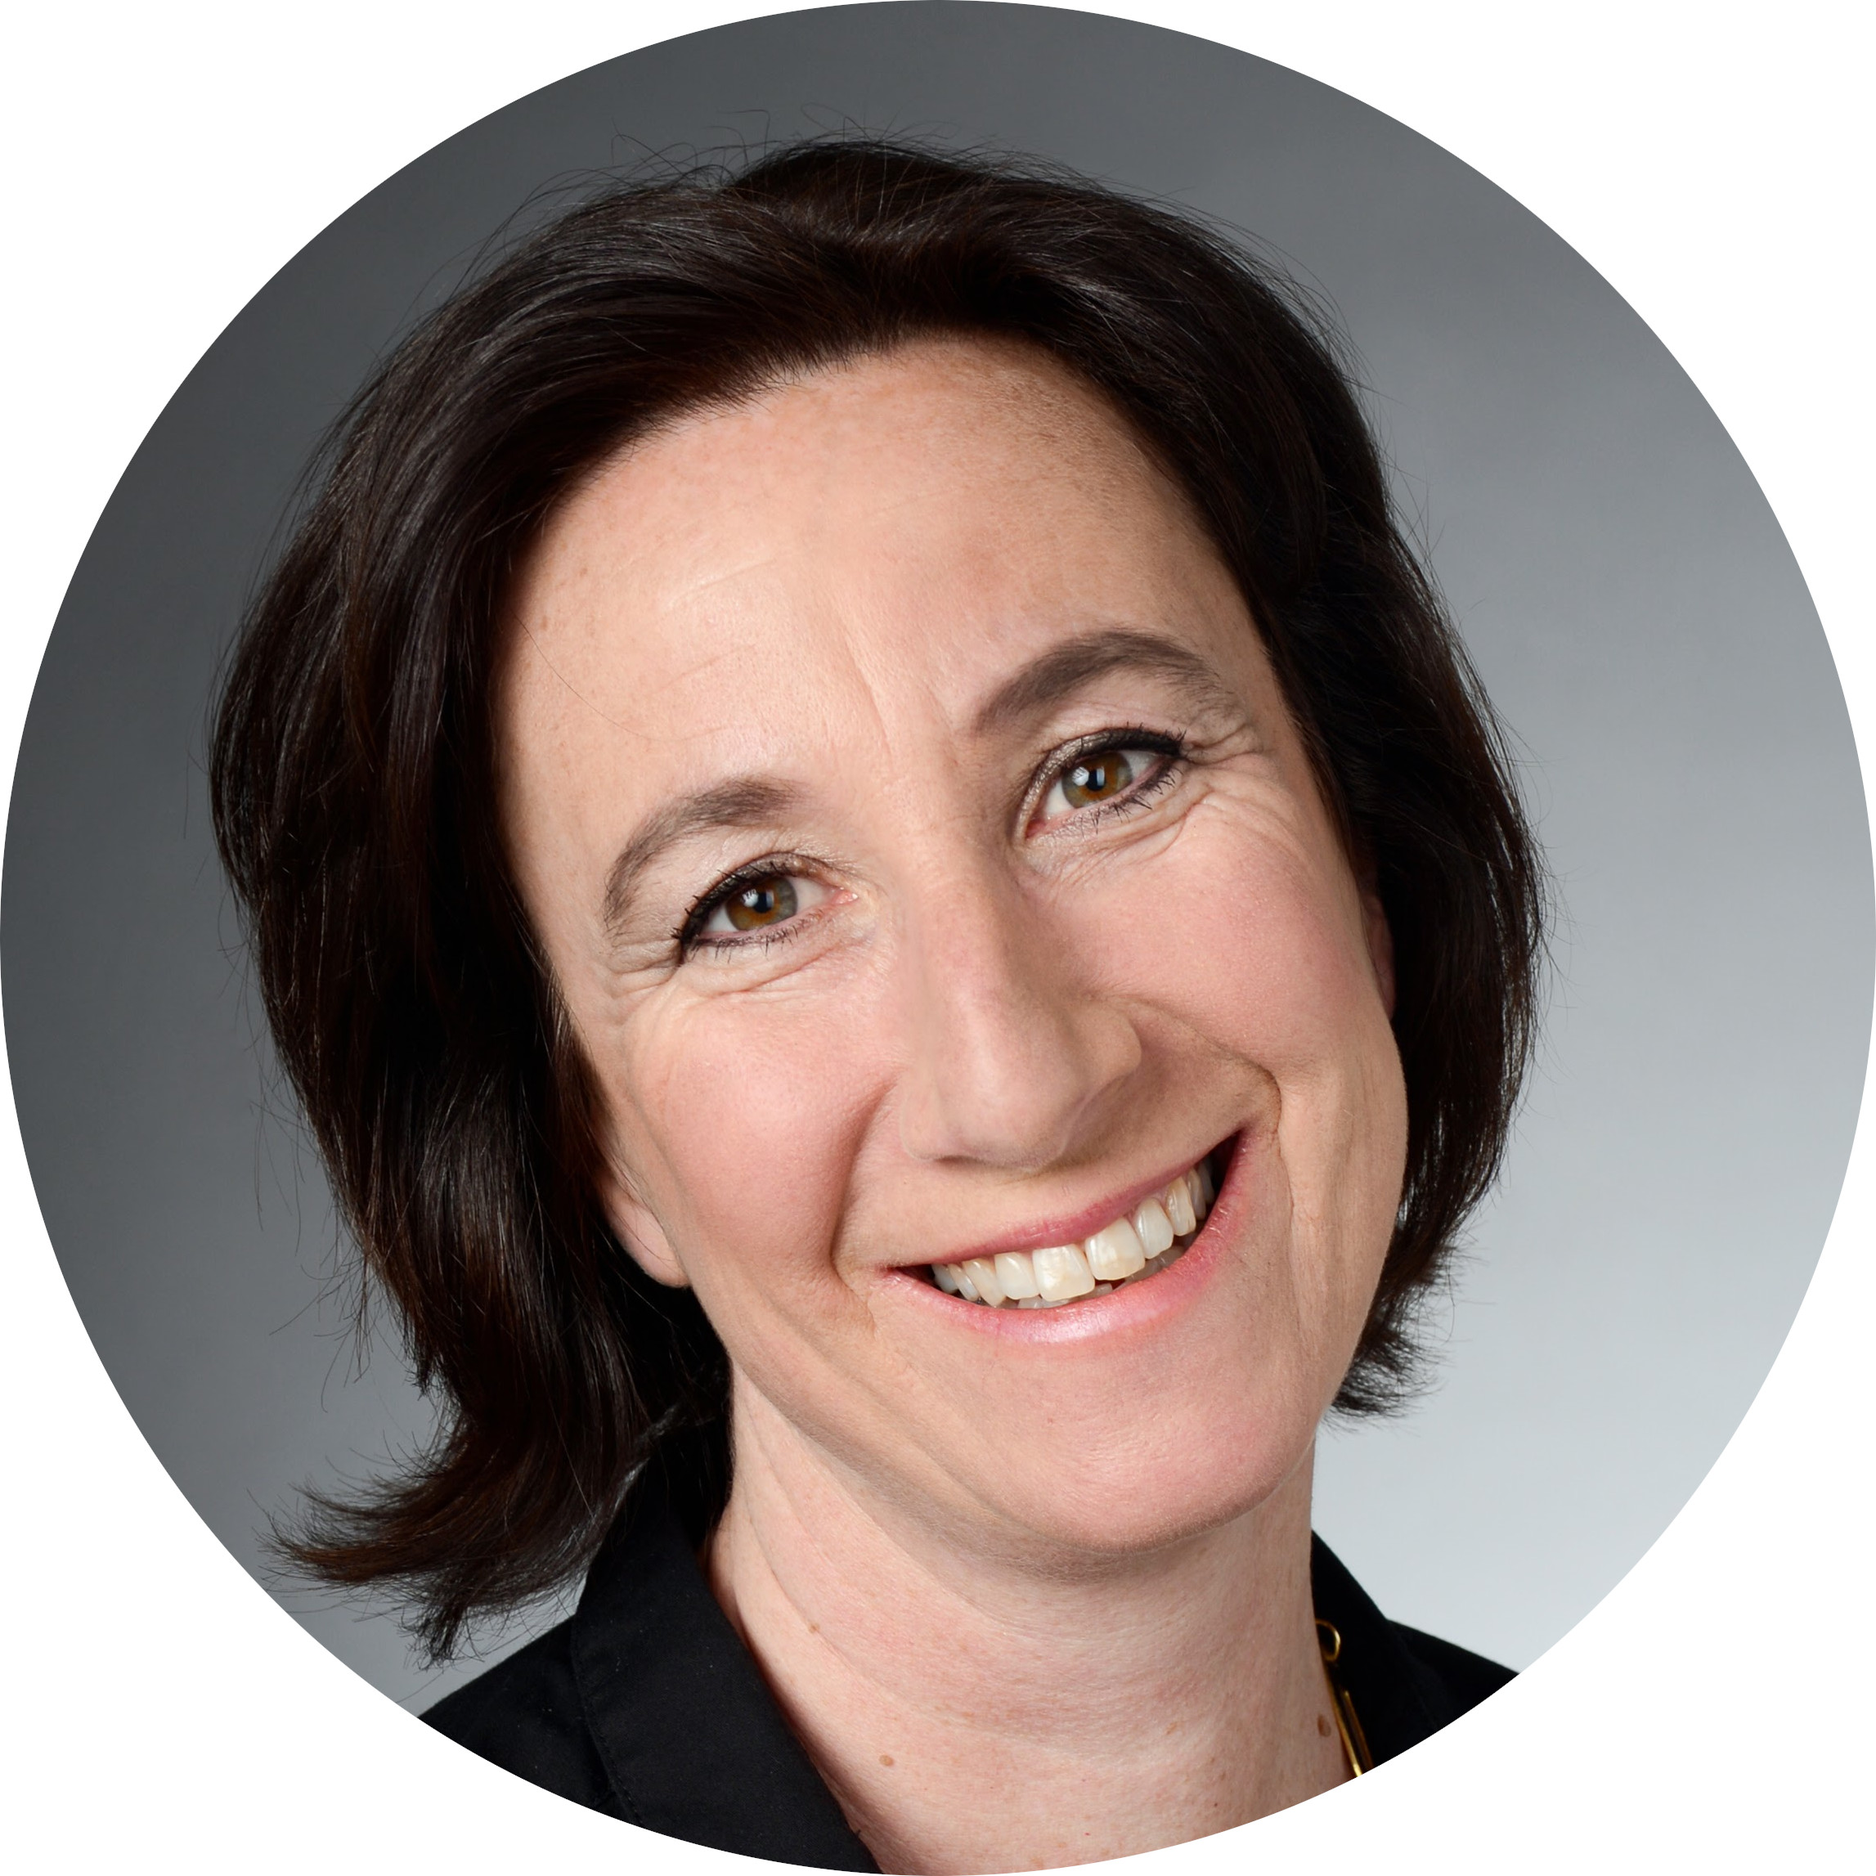
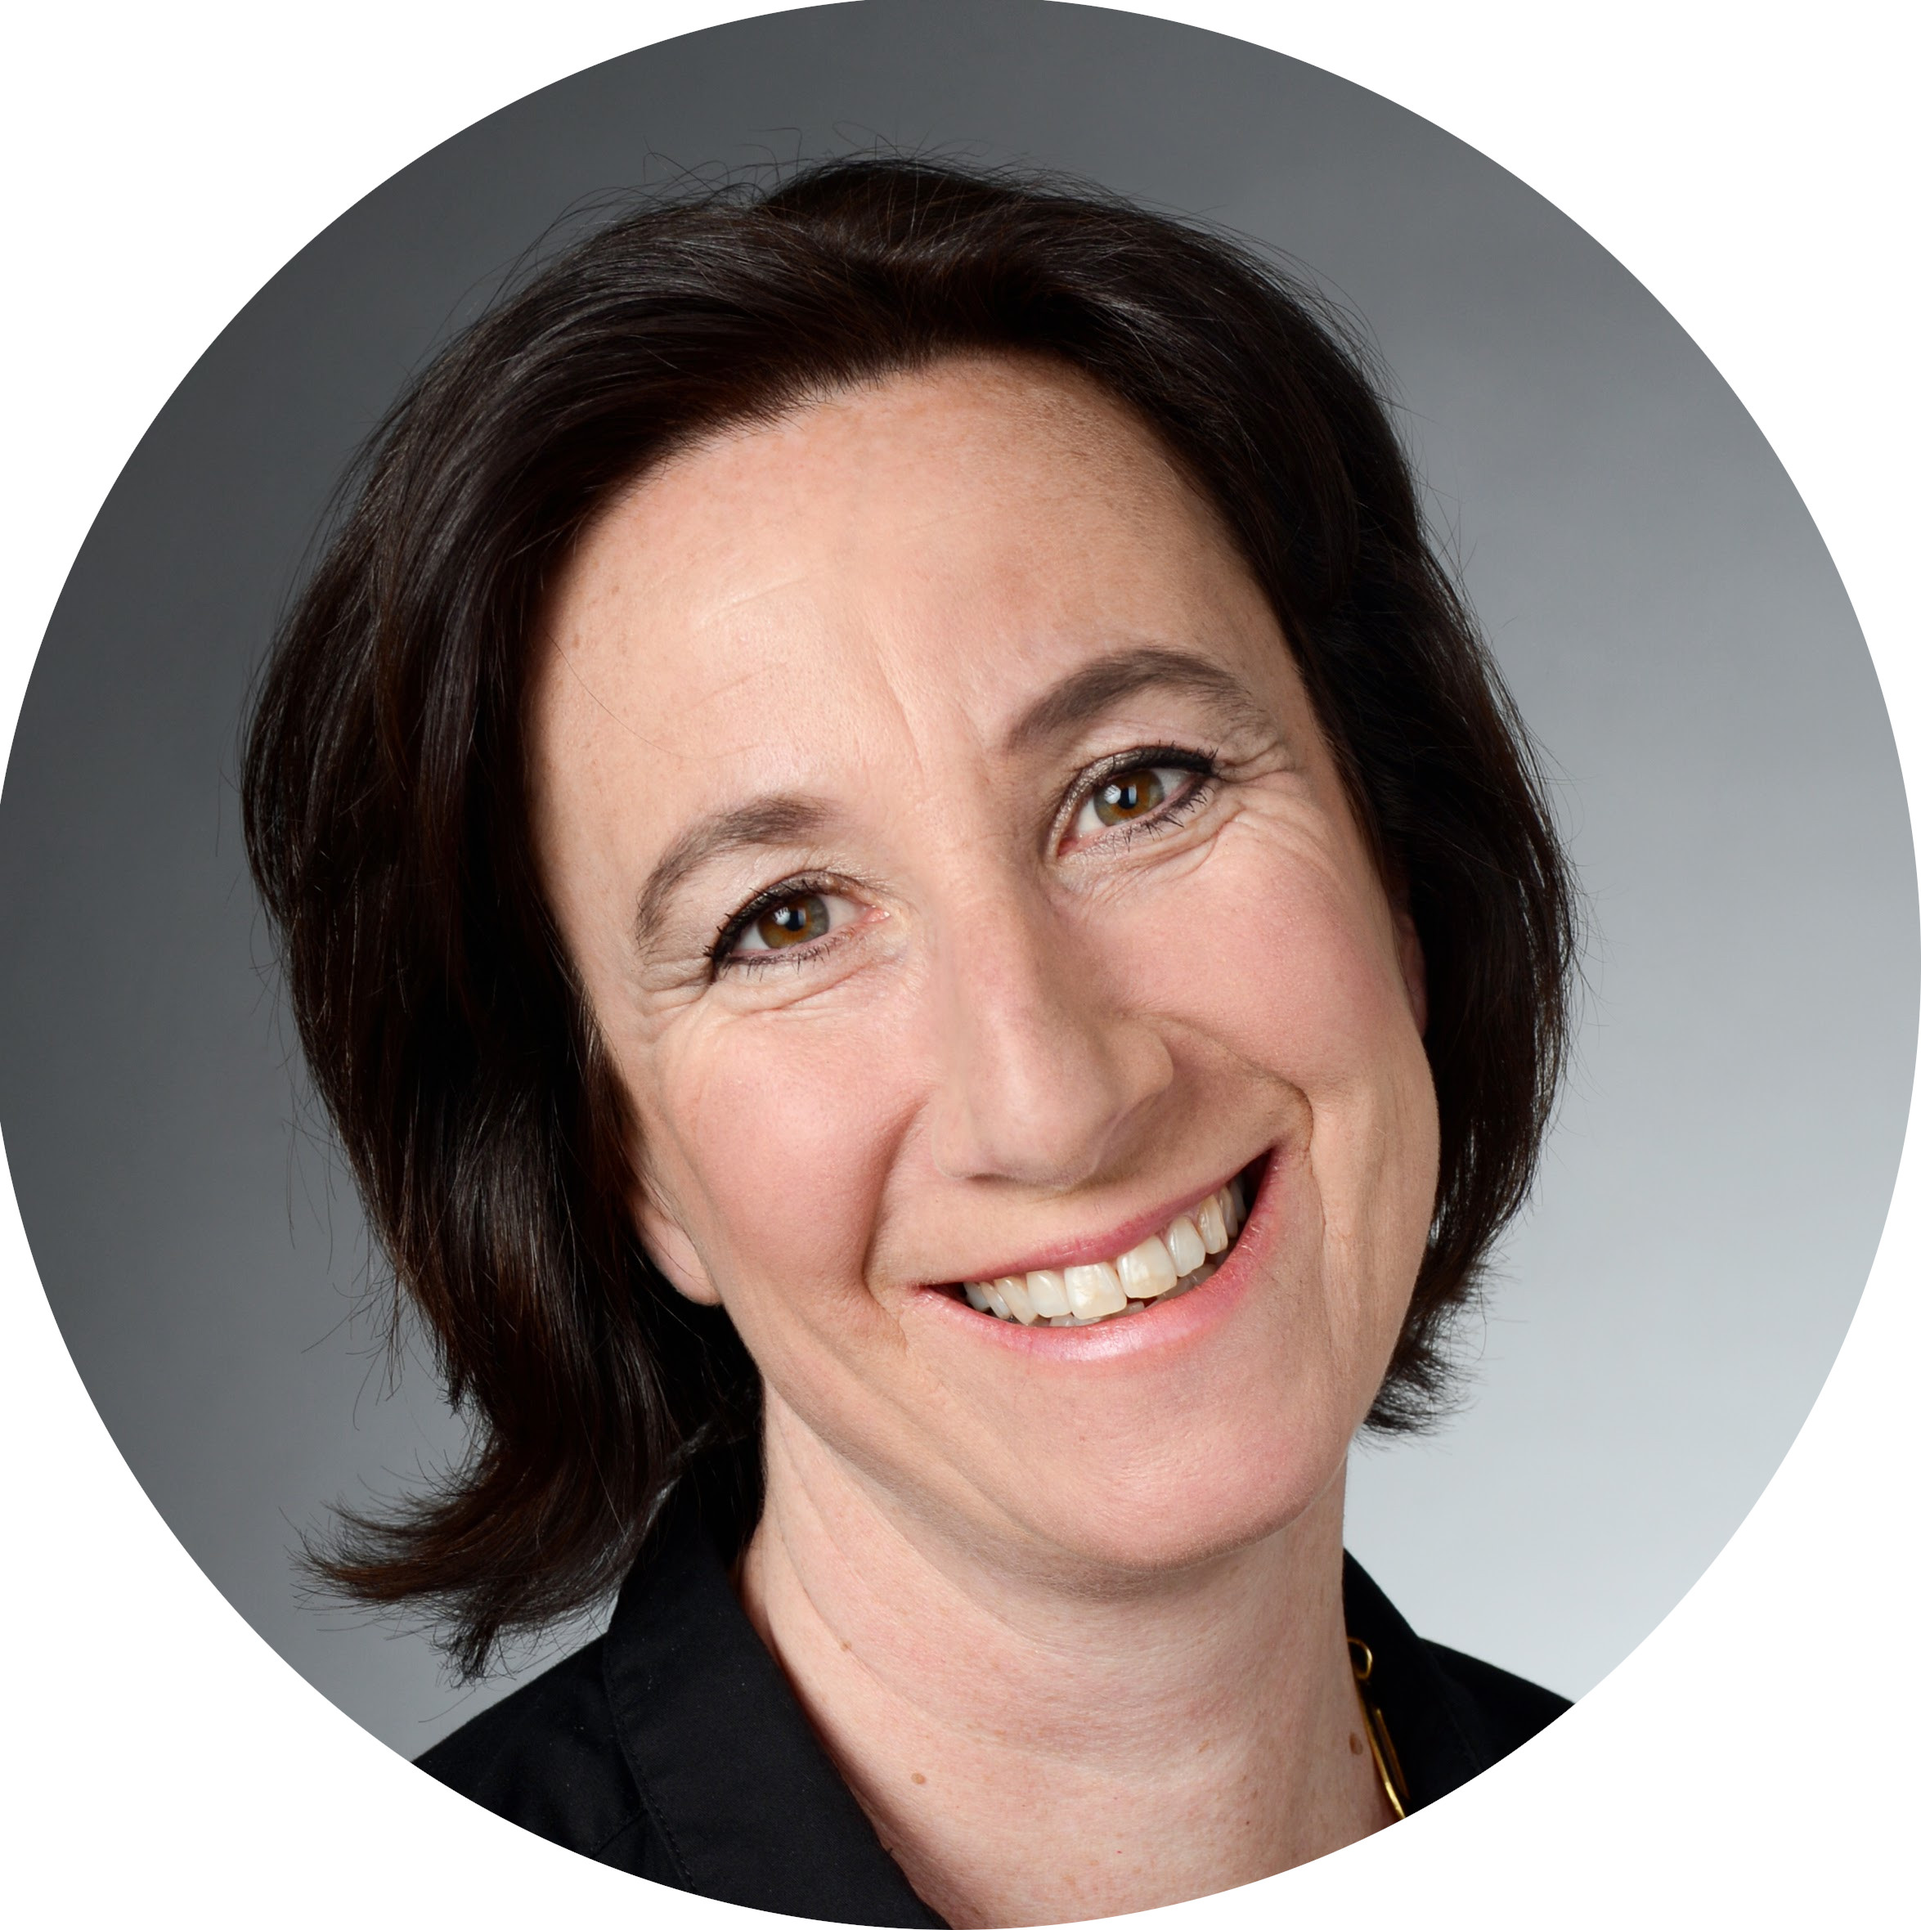
language/content/new img

diff --git a/index_rus.html b/index_rus.html
@@ -52,7 +52,7 @@
               <div class="col-8 booking">         
                 <div class="bannerText text-center my-1 mt-md-0 pt-3 pb-3 pt-md-2 pb-lg-2">
                   <!-- <img id="" class="img-fluid col-1 pb-1" src="./images/france_rect_rounded.png" alt="France Flag"> -->
-                  Davarish un cours gratiski!
+                  Забронируйте бесплатное занятие!
                 </div>
               </div>
               <div class="col-2 d-flex justify-content-end">
@@ -107,10 +107,10 @@
 
           <div class="collapse navbar-collapse justify-content-end order-md-2" id="navbarNav"> <!-- Add order-md-3 to move it to the right on medium and large devices -->
               <ul class="nav navbar-nav mx-3">
-                  <li class="nav-item row justify-content-start"><a class="nav-link text-center px-0 px-md-4" href="#">Home</a></li>
-                  <li class="nav-item row justify-content-start"><a class="nav-link text-center px-0 px-md-4" href="#work">Courses</a></li>
-                  <li class="nav-item row justify-content-start"><a class="nav-link text-center px-0 px-md-4" href="#work2">About</a></li>
-                  <li class="nav-item row justify-content-start"><a class="nav-link text-center px-0 px-md-4" href="#contact">Contact</a></li>
+                  <li class="nav-item row justify-content-start"><a class="nav-link text-center px-0 px-md-4" href="#">Дом</a></li>
+                  <li class="nav-item row justify-content-start"><a class="nav-link text-center px-0 px-md-4" href="#work">Курсы</a></li>
+                  <li class="nav-item row justify-content-start"><a class="nav-link text-center px-0 px-md-4" href="#work2">О</a></li>
+                  <li class="nav-item row justify-content-start"><a class="nav-link text-center px-0 px-md-4" href="#contact">Контакт</a></li>
               </ul>
           </div>
 
@@ -119,8 +119,8 @@
 <!-- NAVBAR STOP ------------------------------------------------------------------------ -->
       <div class="container">
         <div class="row mt-3">
-          <div class="col-md-7 col-sm-12">
-            <h2 class="mt-2">FRENCHNOW<br> Hero Text<br> Comes here...</h2>
+          <div class="col-md-8 col-sm-12">
+            <h2 class="mt-2">Откройте для себя французский,<br> полезным способом.</h2>
           </div>
         </div>
 
@@ -317,7 +317,7 @@
           <div class="row justify-content-evenly">
             <div class="col-md-6 col-sm-12 pt-2">
               <div class="card align-items-center">
-                  <img class="img-fluid rounded-circle card-img-top" src="images/madamlamaitre.jpeg" alt="alex_decamps_portrait" style="width:320px; height:auto"/>
+                  <img class="img-fluid rounded-circle card-img-top" src="images/alex_decamps.png" alt="alex_decamps_portrait" style="width:320px; height:auto"/>
                 <div class="card-body">
                   <p class="text-muted">Lorem ipsum dolor sit amet consectetur adipiscing elit interdum sagittis, nisi ac aptent vitae est facilisi.</p>
                   <a class="card-link" href="#">Learn More</a>
@@ -342,7 +342,7 @@
 
       <div class="tf-contact-section tf-header imgLastSection">
         <div class="container" id="contact">
-          <h2 class="h4 text-lastSection">Your language journey begins here!</h2>
+          <h2 class="h4 text-lastSection">Ваше языковое путешествие начинается здесь!</h2>
         </div>
         <div class="container">
           <div class="row justify-content-center">

diff --git a/index.html b/index.html
@@ -120,7 +120,7 @@
       <div class="container">
         <div class="row mt-3">
           <div class="col-md-7 col-sm-12">
-            <h2 class="mt-2">FRENCHNOW<br> Hero Text<br> Comes here...</h2>
+            <h2 class="mt-2">Französisch lernen, <br>so, wie Sie es brauchen bei Frenchnow.</h2>
           </div>
         </div>
 
@@ -317,7 +317,7 @@
           <div class="row justify-content-evenly">
             <div class="col-md-6 col-sm-12 pt-2">
               <div class="card align-items-center">
-                  <img class="img-fluid rounded-circle card-img-top" src="images/alex_decamps.jpeg" alt="alex_decamps_portrait" style="width:320px; height:auto"/>
+                  <img class="img-fluid rounded-circle card-img-top" src="images/alex_decamps.png" alt="alex_decamps_portrait" style="width:320px; height:auto"/>
                 <div class="card-body">
                   <p class="text-muted">Lorem ipsum dolor sit amet consectetur adipiscing elit interdum sagittis, nisi ac aptent vitae est facilisi.</p>
                   <a class="card-link" href="#">Learn More</a>
@@ -342,7 +342,7 @@
 
       <div class="tf-contact-section tf-header imgLastSection">
         <div class="container" id="contact">
-          <h2 class="h4 text-lastSection">Your language journey begins here!</h2>
+          <h2 class="h4 text-lastSection">Ihre Sprachreise beginnt hier!</h2>
         </div>
         <div class="container">
           <div class="row justify-content-center">

diff --git a/index_french.html b/index_french.html
@@ -120,7 +120,7 @@
       <div class="container">
         <div class="row mt-3">
           <div class="col-md-7 col-sm-12">
-            <h2 class="mt-2">FRENCHNOW<br> Hero Text<br> Comes here...</h2>
+            <h2 class="mt-2">Découvrez le français,<br> d'une manière utile.</h2>
           </div>
         </div>
 
@@ -317,7 +317,7 @@
           <div class="row justify-content-evenly">
             <div class="col-md-6 col-sm-12 pt-2">
               <div class="card align-items-center">
-                  <img class="img-fluid rounded-circle card-img-top" src="images/madamlamaitre.jpeg" alt="alex_decamps_portrait" style="width:320px; height:auto"/>
+                  <img class="img-fluid rounded-circle card-img-top" src="images/alex_decamps.png" alt="alex_decamps_portrait" style="width:320px; height:auto"/>
                 <div class="card-body">
                   <p class="text-muted">Lorem ipsum dolor sit amet consectetur adipiscing elit interdum sagittis, nisi ac aptent vitae est facilisi.</p>
                   <a class="card-link" href="#">Learn More</a>
@@ -342,7 +342,7 @@
 
       <div class="tf-contact-section tf-header imgLastSection">
         <div class="container" id="contact">
-          <h2 class="h4 text-lastSection">Your language journey begins here!</h2>
+          <h2 class="h4 text-lastSection">Votre voyage linguistique commence ici !</h2>
         </div>
         <div class="container">
           <div class="row justify-content-center">
